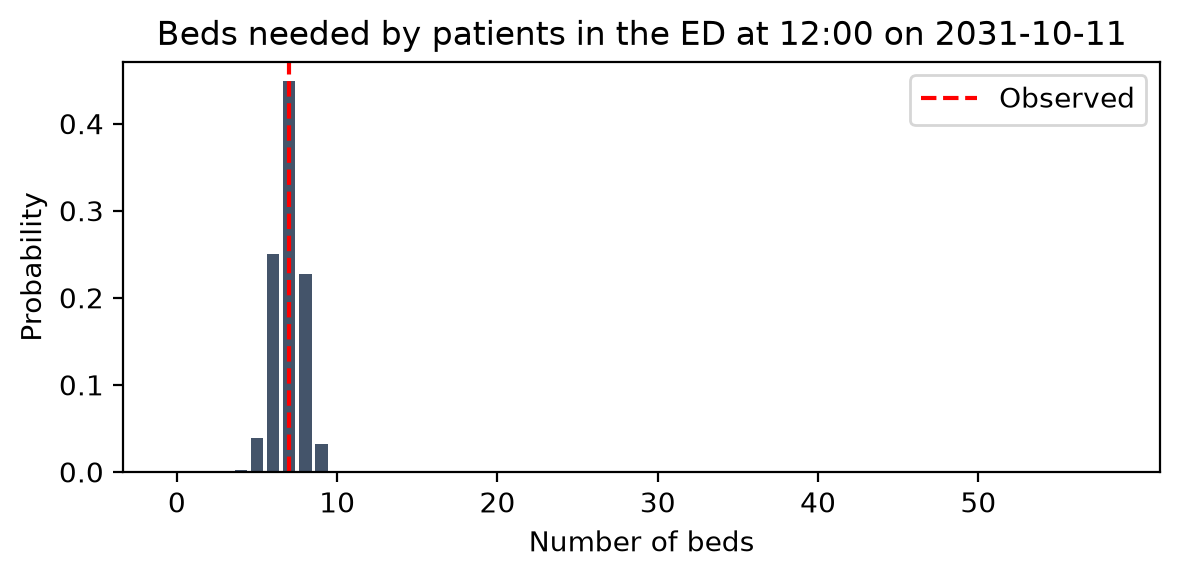
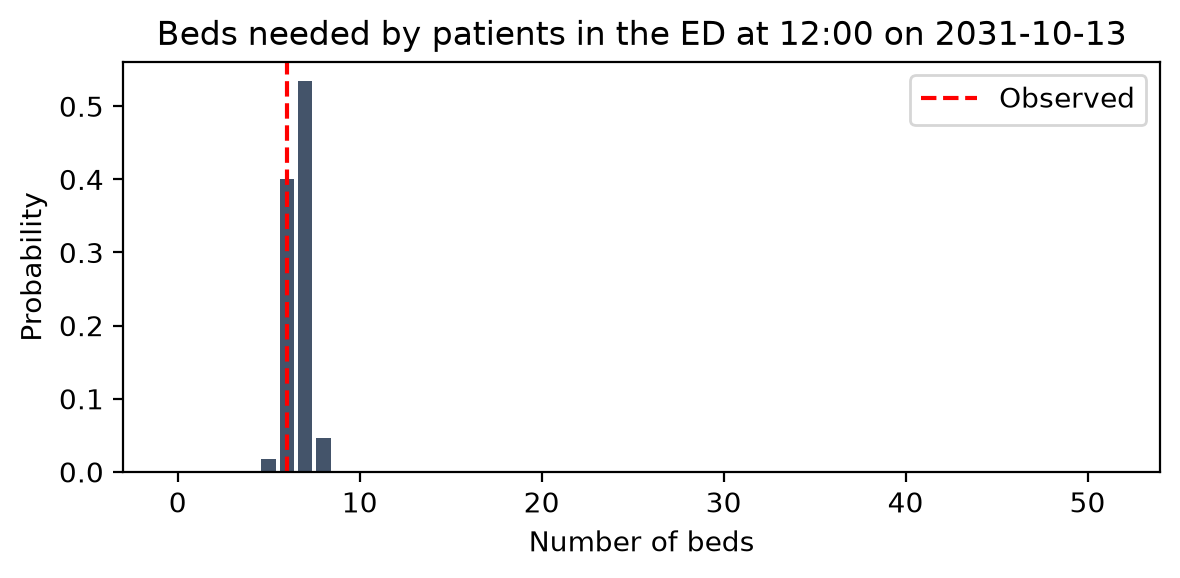
Compare a weekday: move the example day to Monday 13 October
Saturday was an odd choice for "a typical day". Monday gives 19.0
expected beds versus 19.1, but the yet-to-arrive model pools all days,
so this only tests the in-ED half of the prediction.

diff --git a/analysis.py b/analysis.py
@@ -35,7 +35,7 @@ DATA_DIR = PROJECT_ROOT / "data"
 CONFIG_PATH = PROJECT_ROOT / "config.yaml"
 
 MODEL_NAME = "admissions"
-EXAMPLE_DAY = date(2031, 10, 11)
+EXAMPLE_DAY = date(2031, 10, 13)
 
 EXCLUDE_FROM_TRAINING = [
     "snapshot_date",
